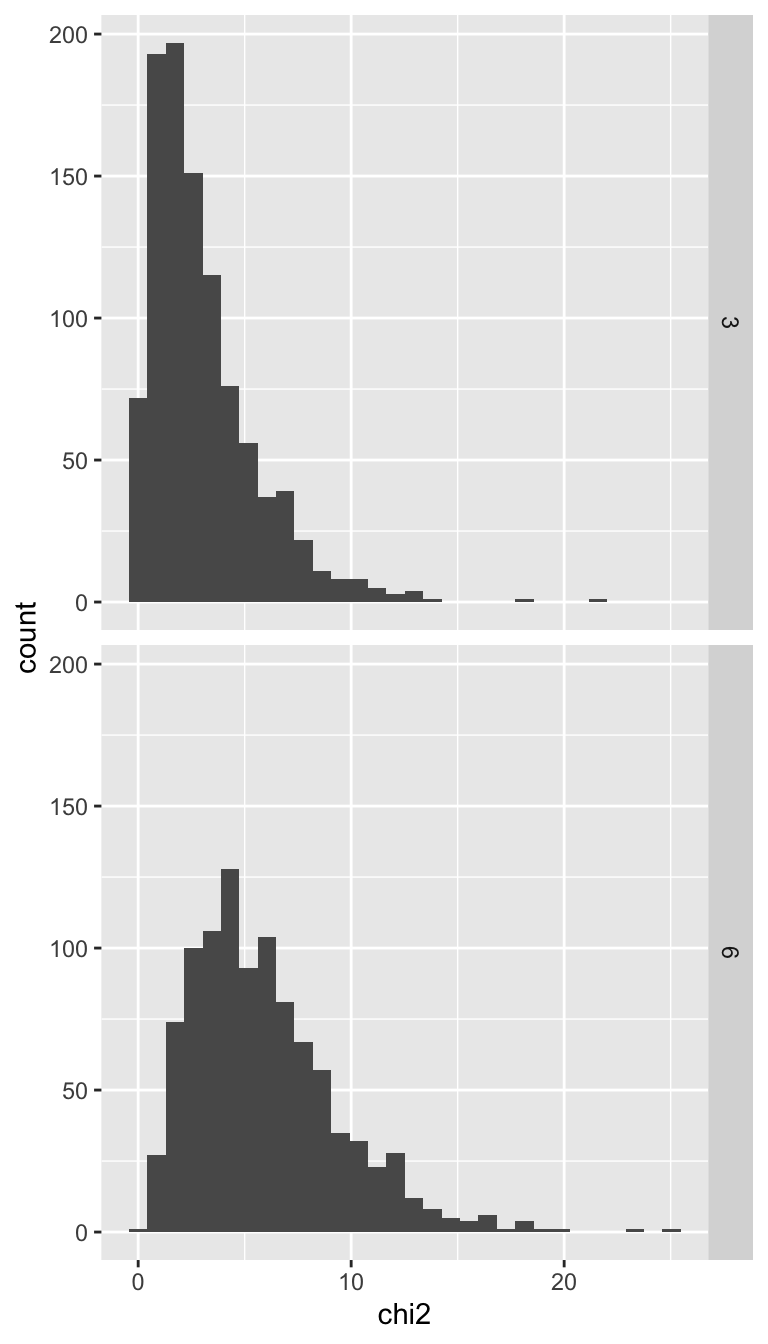
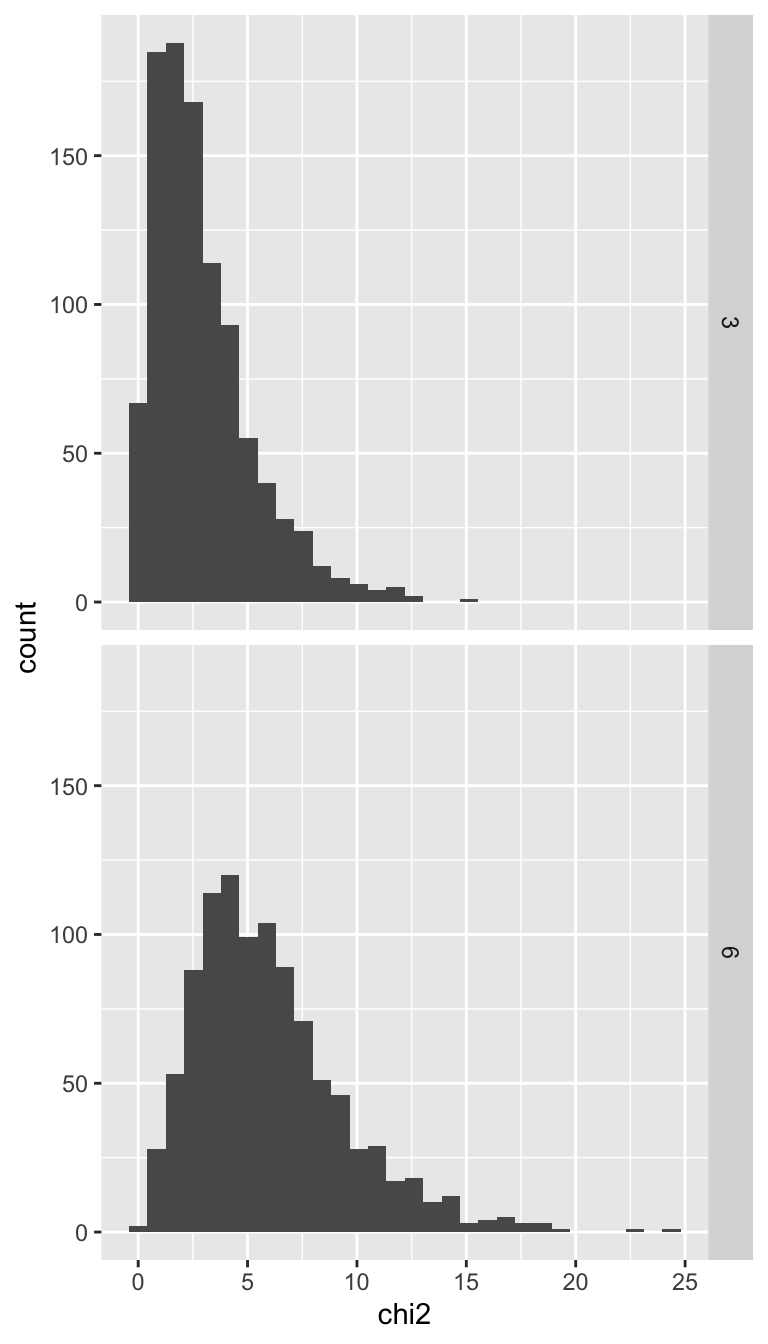
local build

diff --git a/docs/lab08.html b/docs/lab08.html
@@ -213,18 +213,17 @@ pre > code.sourceCode > span > a:first-child::before { text-decoration: underlin
    
   <ul>
   <li><a href="#goals" id="toc-goals" class="nav-link active" data-scroll-target="#goals"><span class="header-section-number">6.1</span> Goals</a></li>
-  <li><a href="#discuss-ideas-for-questions-and-hypotheses-with-group-members" id="toc-discuss-ideas-for-questions-and-hypotheses-with-group-members" class="nav-link" data-scroll-target="#discuss-ideas-for-questions-and-hypotheses-with-group-members"><span class="header-section-number">6.2</span> Discuss ideas for questions and hypotheses with group members</a></li>
-  <li><a href="#learning-the-tools" id="toc-learning-the-tools" class="nav-link" data-scroll-target="#learning-the-tools"><span class="header-section-number">6.3</span> Learning the Tools</a>
+  <li><a href="#learning-the-tools" id="toc-learning-the-tools" class="nav-link" data-scroll-target="#learning-the-tools"><span class="header-section-number">6.2</span> Learning the Tools</a>
   <ul class="collapse">
-  <li><a href="#hypothesis-testing" id="toc-hypothesis-testing" class="nav-link" data-scroll-target="#hypothesis-testing"><span class="header-section-number">6.3.1</span> Hypothesis testing</a></li>
-  <li><a href="#coral-reef-fish-across-polynesia" id="toc-coral-reef-fish-across-polynesia" class="nav-link" data-scroll-target="#coral-reef-fish-across-polynesia"><span class="header-section-number">6.3.2</span> Coral reef fish across Polynesia</a></li>
+  <li><a href="#hypothesis-testing" id="toc-hypothesis-testing" class="nav-link" data-scroll-target="#hypothesis-testing"><span class="header-section-number">6.2.1</span> Hypothesis testing</a></li>
+  <li><a href="#coral-reef-fish-across-polynesia" id="toc-coral-reef-fish-across-polynesia" class="nav-link" data-scroll-target="#coral-reef-fish-across-polynesia"><span class="header-section-number">6.2.2</span> Coral reef fish across Polynesia</a></li>
   <li><a href="#state-h_0-and-h_a" id="toc-state-h_0-and-h_a" class="nav-link" data-scroll-target="#state-h_0-and-h_a">1. State <span class="math inline">\(H_0\)</span> and <span class="math inline">\(H_A\)</span></a></li>
   <li><a href="#calculate-the-test-statistic" id="toc-calculate-the-test-statistic" class="nav-link" data-scroll-target="#calculate-the-test-statistic">2. Calculate the test statistic</a></li>
   <li><a href="#generate-the-null-distribution" id="toc-generate-the-null-distribution" class="nav-link" data-scroll-target="#generate-the-null-distribution">3. Generate the null distribution</a></li>
   <li><a href="#calculate-the-p-value" id="toc-calculate-the-p-value" class="nav-link" data-scroll-target="#calculate-the-p-value">4. Calculate the <span class="math inline">\(p\)</span>-value</a></li>
   <li><a href="#decide-reject-h_0-or-fail-to-reject-h_0" id="toc-decide-reject-h_0-or-fail-to-reject-h_0" class="nav-link" data-scroll-target="#decide-reject-h_0-or-fail-to-reject-h_0">5. Decide: reject <span class="math inline">\(H_0\)</span> or fail to reject <span class="math inline">\(H_0\)</span></a></li>
   </ul></li>
-  <li><a href="#questions" id="toc-questions" class="nav-link" data-scroll-target="#questions"><span class="header-section-number">6.4</span> Questions</a></li>
+  <li><a href="#questions" id="toc-questions" class="nav-link" data-scroll-target="#questions"><span class="header-section-number">6.3</span> Questions</a></li>
   </ul>
 </nav>
     </div>
@@ -251,21 +250,15 @@ pre > code.sourceCode > span > a:first-child::before { text-decoration: underlin
 <section id="goals" class="level2" data-number="6.1">
 <h2 data-number="6.1" class="anchored" data-anchor-id="goals"><span class="header-section-number">6.1</span> Goals</h2>
 <ul>
-<li>Discuss ideas for questions and hypotheses with group members</li>
 <li>Review steps of null hypothesis statistical testing</li>
 <li>Generate null distributions through repeated random sampling</li>
 <li>Test hypotheses with null distributions</li>
 </ul>
 </section>
-<section id="discuss-ideas-for-questions-and-hypotheses-with-group-members" class="level2" data-number="6.2">
-<h2 data-number="6.2" class="anchored" data-anchor-id="discuss-ideas-for-questions-and-hypotheses-with-group-members"><span class="header-section-number">6.2</span> Discuss ideas for questions and hypotheses with group members</h2>
-<p>Before starting the main content of this lab, get together with members of your group for the final project. Make sure everybody agrees on which dataset you will use. Discuss some ideas for questions and hypotheses. Your gruop’s write-up of your questions and hypotheses will be due tomorrow! Consult with your TA about any questions you might have. Your TA can either answer those, or pass them along to Andy.</p>
-<p>This discussion of group projects should be allowed around 20 minutes.</p>
-</section>
-<section id="learning-the-tools" class="level2" data-number="6.3">
-<h2 data-number="6.3" class="anchored" data-anchor-id="learning-the-tools"><span class="header-section-number">6.3</span> Learning the Tools</h2>
-<section id="hypothesis-testing" class="level3" data-number="6.3.1">
-<h3 data-number="6.3.1" class="anchored" data-anchor-id="hypothesis-testing"><span class="header-section-number">6.3.1</span> Hypothesis testing</h3>
+<section id="learning-the-tools" class="level2" data-number="6.2">
+<h2 data-number="6.2" class="anchored" data-anchor-id="learning-the-tools"><span class="header-section-number">6.2</span> Learning the Tools</h2>
+<section id="hypothesis-testing" class="level3" data-number="6.2.1">
+<h3 data-number="6.2.1" class="anchored" data-anchor-id="hypothesis-testing"><span class="header-section-number">6.2.1</span> Hypothesis testing</h3>
 <p>The remainder of this course works within the null hypothesis statistical testing (NHST) framework that we will introduce this week. As we will discover, there are six core steps in NHST:</p>
 <ol type="1">
 <li><p>State <span class="math inline">\(H_0\)</span> and <span class="math inline">\(H_A\)</span></p></li>
@@ -281,8 +274,8 @@ pre > code.sourceCode > span > a:first-child::before { text-decoration: underlin
 <p>For the statistical tests that we encounter during this course, the equations to calculate appropriate test statistics, null distribution of the test statistic, and <span class="math inline">\(p\)</span>-value are well understood. However, the concepts of null hypothesis testing can often be made more obvious by making a computer simulate the null distribution for us. Such “computationally intensive” null distributions also have important applications beyond learning the concepts—there are many real-world situations where no mathematical equation has ever been derived to calculate the necessary test statistic or null distribution for specific data or null hypotheses. In these cases, the only workable solution is to use a computer to simulate a null distribution.</p>
 <p>Let’s have a look at some data and a hypothesis where a “computational null distribution” will both be informative for learning, and also necessary because no mathematical equation exists to define an appropriate null distribution.</p>
 </section>
-<section id="coral-reef-fish-across-polynesia" class="level3" data-number="6.3.2">
-<h3 data-number="6.3.2" class="anchored" data-anchor-id="coral-reef-fish-across-polynesia"><span class="header-section-number">6.3.2</span> Coral reef fish across Polynesia</h3>
+<section id="coral-reef-fish-across-polynesia" class="level3" data-number="6.2.2">
+<h3 data-number="6.2.2" class="anchored" data-anchor-id="coral-reef-fish-across-polynesia"><span class="header-section-number">6.2.2</span> Coral reef fish across Polynesia</h3>
 <p>The Hawaiian Islands and Rapa Nui are unique in the world for their geographic isolation. We might hypothesize that this isolation makes it difficult for organisms to disperse to these islands. Even fish (turns out they swim) might have a difficult time getting there. As such, we might hypothesize that compared to the rest of Polynesia, Hawaiʻi and Rapa Nui might have fewer species of coral reef-associated fishes. Let’s test that out. We have a dataset from <a href="https://onlinelibrary.wiley.com/doi/10.1111/geb.12851">Barneche et. al (2019)</a> that compiles surveys of reef fish from across the globe. The Barneche et. al data report total numbers of species found at different sites. We’ll look at just a subset of those sites to test our <em>scientific</em> hypothesis about species richness of reef fish in Polynesia.</p>
 <p>Let’s go through the steps of null hypothesis testing:</p>
 </section>
@@ -462,8 +455,8 @@ pre > code.sourceCode > span > a:first-child::before { text-decoration: underlin
 <p>That is the question. Since we’re in <em>bio</em>statistics and the convention in our field is to set <span class="math inline">\(\alpha = 0.05\)</span>, then we will <strong>reject</strong> <span class="math inline">\(H_0\)</span> because <span class="math inline">\(p \le \alpha\)</span>, i.e., it is true that 0 <span class="math inline">\(\le 0.05\)</span>.</p>
 </section>
 </section>
-<section id="questions" class="level2" data-number="6.4">
-<h2 data-number="6.4" class="anchored" data-anchor-id="questions"><span class="header-section-number">6.4</span> Questions</h2>
+<section id="questions" class="level2" data-number="6.3">
+<h2 data-number="6.3" class="anchored" data-anchor-id="questions"><span class="header-section-number">6.3</span> Questions</h2>
 <p>A common hypothesis in the study of biodiversity is that species richness is higher in the tropics. The tropics are defined as any place between the latitudes of -23.43615° and 23.43615°, i.e.&nbsp;23.43615° south of the equator and 23.43615° north of the equator. Reef ecosystems largely exist only within the tropics, but there are a few interesting and unique types of reef ecosystems outside the tropic latitudes as well. That means we can use our reef fish dataset to test whether reef species richness is higher in the tropics or not.</p>
 <p>In questions 1–7 you will conduct the steps of testing this <em>scientific hypothesis</em> with statistical null hypothesis testing.</p>
 <ol type="1">

diff --git a/docs/lab07.html b/docs/lab07.html
@@ -378,7 +378,7 @@ pre > code.sourceCode > span > a:first-child::before { text-decoration: underlin
 <div class="sourceCode cell-code" id="cb16"><pre class="sourceCode r code-with-copy"><code class="sourceCode r"><span id="cb16-1"><a href="#cb16-1" aria-hidden="true" tabindex="-1"></a><span class="co"># randomly sample 3 numbers between 1 and 10</span></span>
 <span id="cb16-2"><a href="#cb16-2" aria-hidden="true" tabindex="-1"></a><span class="fu">sample</span>(<span class="dv">1</span><span class="sc">:</span><span class="dv">10</span>, <span class="dv">3</span>)</span></code><button title="Copy to Clipboard" class="code-copy-button"><i class="bi"></i></button></pre></div>
 <div class="cell-output cell-output-stdout">
-<pre><code>[1] 5 7 8</code></pre>
+<pre><code>[1] 2 9 5</code></pre>
 </div>
 </div>
 <p>We can also sample characters:</p>
@@ -386,7 +386,7 @@ pre > code.sourceCode > span > a:first-child::before { text-decoration: underlin
 <div class="sourceCode cell-code" id="cb18"><pre class="sourceCode r code-with-copy"><code class="sourceCode r"><span id="cb18-1"><a href="#cb18-1" aria-hidden="true" tabindex="-1"></a><span class="co"># sample 5 letters from A, B, C with replacement</span></span>
 <span id="cb18-2"><a href="#cb18-2" aria-hidden="true" tabindex="-1"></a><span class="fu">sample</span>(<span class="fu">c</span>(<span class="st">"A"</span>, <span class="st">"B"</span>, <span class="st">"C"</span>), <span class="dv">5</span>, <span class="at">replace =</span> <span class="cn">TRUE</span>)</span></code><button title="Copy to Clipboard" class="code-copy-button"><i class="bi"></i></button></pre></div>
 <div class="cell-output cell-output-stdout">
-<pre><code>[1] "C" "A" "A" "C" "C"</code></pre>
+<pre><code>[1] "C" "C" "C" "C" "C"</code></pre>
 </div>
 </div>
 <p>Try running the above code without setting <code>replace = TRUE</code></p>
@@ -406,7 +406,7 @@ pre > code.sourceCode > span > a:first-child::before { text-decoration: underlin
 <div class="sourceCode cell-code" id="cb22"><pre class="sourceCode r code-with-copy"><code class="sourceCode r"><span id="cb22-1"><a href="#cb22-1" aria-hidden="true" tabindex="-1"></a><span class="co"># randomly sample 3 numbers between 1 and 10</span></span>
 <span id="cb22-2"><a href="#cb22-2" aria-hidden="true" tabindex="-1"></a><span class="fu">sample</span>(<span class="dv">1</span><span class="sc">:</span><span class="dv">10</span>, <span class="dv">3</span>, <span class="at">replace =</span> <span class="cn">TRUE</span>)</span></code><button title="Copy to Clipboard" class="code-copy-button"><i class="bi"></i></button></pre></div>
 <div class="cell-output cell-output-stdout">
-<pre><code>[1] 10  6  6</code></pre>
+<pre><code>[1] 10  1  5</code></pre>
 </div>
 </div>
 <p>We can also change the frequency of different outcomes by changing the probability that R assigns to them!</p>
@@ -414,7 +414,7 @@ pre > code.sourceCode > span > a:first-child::before { text-decoration: underlin
 <div class="sourceCode cell-code" id="cb24"><pre class="sourceCode r code-with-copy"><code class="sourceCode r"><span id="cb24-1"><a href="#cb24-1" aria-hidden="true" tabindex="-1"></a><span class="co"># randomly sample 3 numbers between 1 and 10</span></span>
 <span id="cb24-2"><a href="#cb24-2" aria-hidden="true" tabindex="-1"></a><span class="fu">sample</span>(<span class="fu">c</span>(<span class="st">"A"</span>, <span class="st">"B"</span>, <span class="st">"C"</span>), <span class="dv">5</span>, <span class="at">replace =</span> <span class="cn">TRUE</span>, <span class="at">prob =</span> <span class="fu">c</span>(<span class="fl">0.8</span>, <span class="fl">0.1</span>, <span class="fl">0.1</span>))</span></code><button title="Copy to Clipboard" class="code-copy-button"><i class="bi"></i></button></pre></div>
 <div class="cell-output cell-output-stdout">
-<pre><code>[1] "A" "A" "C" "A" "A"</code></pre>
+<pre><code>[1] "A" "A" "A" "A" "C"</code></pre>
 </div>
 </div>
 <p>The above code will yield 80% “A”, and 10% of both “B” and “C” if we run it over and over.</p>
@@ -423,7 +423,7 @@ pre > code.sourceCode > span > a:first-child::before { text-decoration: underlin
 <div class="sourceCode cell-code" id="cb26"><pre class="sourceCode r code-with-copy"><code class="sourceCode r"><span id="cb26-1"><a href="#cb26-1" aria-hidden="true" tabindex="-1"></a><span class="co"># randomly sample 3 numbers between 1 and 10</span></span>
 <span id="cb26-2"><a href="#cb26-2" aria-hidden="true" tabindex="-1"></a><span class="fu">sample</span>(<span class="fu">c</span>(<span class="st">"A"</span>, <span class="st">"B"</span>, <span class="st">"C"</span>), <span class="dv">5</span>, <span class="at">replace =</span> <span class="cn">TRUE</span>, <span class="at">prob =</span> <span class="fu">c</span>(<span class="dv">8</span>, <span class="dv">1</span>, <span class="dv">1</span>))</span></code><button title="Copy to Clipboard" class="code-copy-button"><i class="bi"></i></button></pre></div>
 <div class="cell-output cell-output-stdout">
-<pre><code>[1] "A" "A" "A" "A" "C"</code></pre>
+<pre><code>[1] "A" "C" "A" "B" "A"</code></pre>
 </div>
 </div>
 <p>The exact events will be different because each time you run it is a random trial.</p>

diff --git a/docs/lab09.html b/docs/lab09.html
@@ -258,21 +258,21 @@ pre > code.sourceCode > span > a:first-child::before { text-decoration: underlin
 <div class="cell">
 <div class="sourceCode cell-code" id="cb1"><pre class="sourceCode r code-with-copy"><code class="sourceCode r"><span id="cb1-1"><a href="#cb1-1" aria-hidden="true" tabindex="-1"></a><span class="fu">sample</span>(<span class="fu">c</span>(<span class="st">"H"</span>, <span class="st">"T"</span>), <span class="at">size =</span> <span class="dv">1</span>, <span class="at">replace =</span> <span class="cn">TRUE</span>, <span class="at">prob =</span> <span class="fu">c</span>(<span class="fl">0.5</span>, <span class="fl">0.5</span>))</span></code><button title="Copy to Clipboard" class="code-copy-button"><i class="bi"></i></button></pre></div>
 <div class="cell-output cell-output-stdout">
-<pre><code>[1] "H"</code></pre>
+<pre><code>[1] "T"</code></pre>
 </div>
 </div>
 <p>The above code simulates <em>one</em> coin toss that will come up either heads (<code>"H"</code>) or tails (<code>"T"</code>). We are simulating a fair coin, meaning equal probabilities of heads and tails, thus we specify <code>prob = c(0.5, 0.5)</code>. We could simulate the outcome of tossing a coin 4 times like this:</p>
 <div class="cell">
 <div class="sourceCode cell-code" id="cb3"><pre class="sourceCode r code-with-copy"><code class="sourceCode r"><span id="cb3-1"><a href="#cb3-1" aria-hidden="true" tabindex="-1"></a><span class="fu">sample</span>(<span class="fu">c</span>(<span class="st">"H"</span>, <span class="st">"T"</span>), <span class="at">size =</span> <span class="dv">4</span>, <span class="at">replace =</span> <span class="cn">TRUE</span>, <span class="at">prob =</span> <span class="fu">c</span>(<span class="fl">0.5</span>, <span class="fl">0.5</span>))</span></code><button title="Copy to Clipboard" class="code-copy-button"><i class="bi"></i></button></pre></div>
 <div class="cell-output cell-output-stdout">
-<pre><code>[1] "H" "T" "T" "T"</code></pre>
+<pre><code>[1] "T" "H" "H" "T"</code></pre>
 </div>
 </div>
 <p>Now let’s modify the code for 4 coin tosses to represent a biased coin, say one that comes up tails 70% of the time</p>
 <div class="cell">
 <div class="sourceCode cell-code" id="cb5"><pre class="sourceCode r code-with-copy"><code class="sourceCode r"><span id="cb5-1"><a href="#cb5-1" aria-hidden="true" tabindex="-1"></a><span class="fu">sample</span>(<span class="fu">c</span>(<span class="st">"H"</span>, <span class="st">"T"</span>), <span class="at">size =</span> <span class="dv">4</span>, <span class="at">replace =</span> <span class="cn">TRUE</span>, <span class="at">prob =</span> <span class="fu">c</span>(<span class="fl">0.3</span>, <span class="fl">0.7</span>))</span></code><button title="Copy to Clipboard" class="code-copy-button"><i class="bi"></i></button></pre></div>
 <div class="cell-output cell-output-stdout">
-<pre><code>[1] "T" "T" "H" "T"</code></pre>
+<pre><code>[1] "T" "T" "H" "H"</code></pre>
 </div>
 </div>
 <p>Let’s arbitrarily say that a “success” is if the coin lands tails up. We can count the number of successes like this:</p>
@@ -281,13 +281,13 @@ pre > code.sourceCode > span > a:first-child::before { text-decoration: underlin
 <span id="cb7-2"><a href="#cb7-2" aria-hidden="true" tabindex="-1"></a>toss <span class="ot">&lt;-</span> <span class="fu">sample</span>(<span class="fu">c</span>(<span class="st">"H"</span>, <span class="st">"T"</span>), <span class="at">size =</span> <span class="dv">4</span>, <span class="at">replace =</span> <span class="cn">TRUE</span>, <span class="at">prob =</span> <span class="fu">c</span>(<span class="fl">0.5</span>, <span class="fl">0.5</span>))</span>
 <span id="cb7-3"><a href="#cb7-3" aria-hidden="true" tabindex="-1"></a>toss</span></code><button title="Copy to Clipboard" class="code-copy-button"><i class="bi"></i></button></pre></div>
 <div class="cell-output cell-output-stdout">
-<pre><code>[1] "T" "T" "H" "H"</code></pre>
+<pre><code>[1] "H" "T" "H" "H"</code></pre>
 </div>
 <div class="sourceCode cell-code" id="cb9"><pre class="sourceCode r code-with-copy"><code class="sourceCode r"><span id="cb9-1"><a href="#cb9-1" aria-hidden="true" tabindex="-1"></a><span class="co"># count successes</span></span>
 <span id="cb9-2"><a href="#cb9-2" aria-hidden="true" tabindex="-1"></a>nsuccess <span class="ot">&lt;-</span> <span class="fu">sum</span>(toss <span class="sc">==</span> <span class="st">"T"</span>)</span>
 <span id="cb9-3"><a href="#cb9-3" aria-hidden="true" tabindex="-1"></a>nsuccess</span></code><button title="Copy to Clipboard" class="code-copy-button"><i class="bi"></i></button></pre></div>
 <div class="cell-output cell-output-stdout">
-<pre><code>[1] 2</code></pre>
+<pre><code>[1] 1</code></pre>
 </div>
 </div>
 <p>The number of successes in 4 tosses is exactly the kind of situation where a binomial distribution is relevant. In this example, the probability of success is <span class="math inline">\(p = 0.5\)</span> and the number of trials is <span class="math inline">\(n = 4\)</span>.</p>

diff --git a/docs/lab10.html b/docs/lab10.html
@@ -259,8 +259,8 @@ pre > code.sourceCode > span > a:first-child::before { text-decoration: underlin
 <div class="cell">
 <div class="sourceCode cell-code" id="cb1"><pre class="sourceCode r code-with-copy"><code class="sourceCode r"><span id="cb1-1"><a href="#cb1-1" aria-hidden="true" tabindex="-1"></a><span class="fu">rchisq</span>(<span class="dv">10</span>, <span class="at">df =</span> <span class="dv">3</span>)</span></code><button title="Copy to Clipboard" class="code-copy-button"><i class="bi"></i></button></pre></div>
 <div class="cell-output cell-output-stdout">
-<pre><code> [1] 0.08780563 6.36687267 3.17695986 8.42081859 3.22340880 3.07683940
- [7] 5.78784483 9.76356735 6.36609909 1.48691548</code></pre>
+<pre><code> [1] 4.75223180 4.91737276 2.21415590 3.25928877 0.61928947 0.06758679
+ [7] 0.23252018 7.36510630 1.18093077 6.68771599</code></pre>
 </div>
 </div>
 <p>The above is a random sample of 10 numbers from the <span class="math inline">\(\chi^2\)</span> distribution with 3 degrees of freedom.</p>
@@ -321,10 +321,10 @@ pre > code.sourceCode > span > a:first-child::before { text-decoration: underlin
 <span id="cb7-2"><a href="#cb7-2" aria-hidden="true" tabindex="-1"></a>n_event <span class="ot">&lt;-</span> <span class="fu">sum</span>(chi2_df3 <span class="sc">&gt;=</span> <span class="fl">7.8</span>)</span>
 <span id="cb7-3"><a href="#cb7-3" aria-hidden="true" tabindex="-1"></a>n_event <span class="sc">/</span> <span class="fu">length</span>(chi2_df3)</span></code><button title="Copy to Clipboard" class="code-copy-button"><i class="bi"></i></button></pre></div>
 <div class="cell-output cell-output-stdout">
-<pre><code>[1] 0.055</code></pre>
+<pre><code>[1] 0.042</code></pre>
 </div>
 </div>
-<p>So the probability <span class="math inline">\(Pr(\chi^2 \ge 7.8 | df = 3) \approx\)</span> 0.055. We are working with random samples here, so your numbers will likely be a little different. If <span class="math inline">\(Pr(\chi^2 \ge 7.8 | df = 3) \approx\)</span> 0.055 seems suspiciously close to 0.05 that’s because I choose 7.8 very deliberately. 7.8 is approximately the <em>critical value</em> for a <span class="math inline">\(\chi^2\)</span> distribution with 3 degrees of freedom.</p>
+<p>So the probability <span class="math inline">\(Pr(\chi^2 \ge 7.8 | df = 3) \approx\)</span> 0.042. We are working with random samples here, so your numbers will likely be a little different. If <span class="math inline">\(Pr(\chi^2 \ge 7.8 | df = 3) \approx\)</span> 0.042 seems suspiciously close to 0.05 that’s because I choose 7.8 very deliberately. 7.8 is approximately the <em>critical value</em> for a <span class="math inline">\(\chi^2\)</span> distribution with 3 degrees of freedom.</p>
 <p>Recall that a critical value is the value that cuts a probability distribution at the desired <span class="math inline">\(\alpha\)</span>, AKA significance level. To calculate the critical value we use <code>qchisq</code>:</p>
 <div class="cell">
 <div class="sourceCode cell-code" id="cb9"><pre class="sourceCode r code-with-copy"><code class="sourceCode r"><span id="cb9-1"><a href="#cb9-1" aria-hidden="true" tabindex="-1"></a><span class="co"># this returns the value that divides a chi-sqrd distribution</span></span>

diff --git a/docs/lab04.html b/docs/lab04.html
@@ -270,11 +270,11 @@ pre > code.sourceCode > span > a:first-child::before { text-decoration: underlin
 <span id="cb1-4"><a href="#cb1-4" aria-hidden="true" tabindex="-1"></a>samp</span></code><button title="Copy to Clipboard" class="code-copy-button"><i class="bi"></i></button></pre></div>
 <div class="cell-output cell-output-stdout">
 <pre><code>  Sepal.Length Sepal.Width Petal.Length Petal.Width    Species
-1          6.1         2.9          4.7         1.4 versicolor
-2          5.8         2.7          4.1         1.0 versicolor
-3          5.7         2.8          4.1         1.3 versicolor
-4          4.7         3.2          1.3         0.2     setosa
-5          6.4         2.8          5.6         2.2  virginica</code></pre>
+1          5.8         2.7          3.9         1.2 versicolor
+2          6.9         3.1          4.9         1.5 versicolor
+3          5.6         3.0          4.1         1.3 versicolor
+4          6.9         3.1          5.4         2.1  virginica
+5          4.8         3.0          1.4         0.3     setosa</code></pre>
 </div>
 </div>
 <p>Now try on your to increase the sample size 10, how would you do this?</p>
@@ -296,12 +296,12 @@ pre > code.sourceCode > span > a:first-child::before { text-decoration: underlin
 # Groups:   replicate [2]
   replicate Sepal.Length Sepal.Width Petal.Length Petal.Width Species
       &lt;int&gt;        &lt;dbl&gt;       &lt;dbl&gt;        &lt;dbl&gt;       &lt;dbl&gt; &lt;fct&gt;  
-1         1          4.6         3.1          1.5         0.2 setosa 
-2         1          4.9         3            1.4         0.2 setosa 
-3         1          5.1         3.4          1.5         0.2 setosa 
-4         1          4.6         3.6          1           0.2 setosa 
-5         1          5.5         4.2          1.4         0.2 setosa 
-6         2          5.4         3.7          1.5         0.2 setosa </code></pre>
+1         1          5.5         4.2          1.4         0.2 setosa 
+2         1          4.8         3            1.4         0.3 setosa 
+3         1          5.4         3.9          1.7         0.4 setosa 
+4         1          5.1         3.3          1.7         0.5 setosa 
+5         1          5.3         3.7          1.5         0.2 setosa 
+6         2          5.5         3.5          1.3         0.2 setosa </code></pre>
 </div>
 </div>
 <p>Note: the <strong>infer</strong> package converted the <code>iris</code> data.frame to something called a <code>tibble</code>, for our purposes, think of a data.frame and a tibble as equivalent.</p>

diff --git a/docs/lab12.html b/docs/lab12.html
@@ -295,9 +295,9 @@ pre > code.sourceCode > span > a:first-child::before { text-decoration: underlin
 <div class="cell">
 <div class="sourceCode cell-code" id="cb4"><pre class="sourceCode r code-with-copy"><code class="sourceCode r"><span id="cb4-1"><a href="#cb4-1" aria-hidden="true" tabindex="-1"></a><span class="fu">rnorm</span>(<span class="at">n =</span> <span class="dv">20</span>, <span class="at">mean =</span> <span class="dv">13</span>, <span class="at">sd =</span> <span class="dv">4</span>)</span></code><button title="Copy to Clipboard" class="code-copy-button"><i class="bi"></i></button></pre></div>
 <div class="cell-output cell-output-stdout">
-<pre><code> [1] 14.442891  9.968823 16.755555 10.764797 17.431155 14.481177 17.794830
- [8] 13.999529 11.390188 10.772424 11.953418 12.485136 13.857475  9.890841
-[15] 15.596512 15.360598  8.913806 16.921937  9.240416 10.221334</code></pre>
+<pre><code> [1] 11.174784 13.104214  7.648138 15.856684  4.040495 14.588208 15.365404
+ [8]  7.991804 11.483442 10.100472 12.880559 14.879026  1.291009 12.296700
+[15] 13.726999 11.100987 12.576603 14.344710 15.694221 18.884891</code></pre>
 </div>
 </div>
 <p>Let’s look at a QQ plot generated from 100 numbers randomly drawn from a normal distribution:</p>
